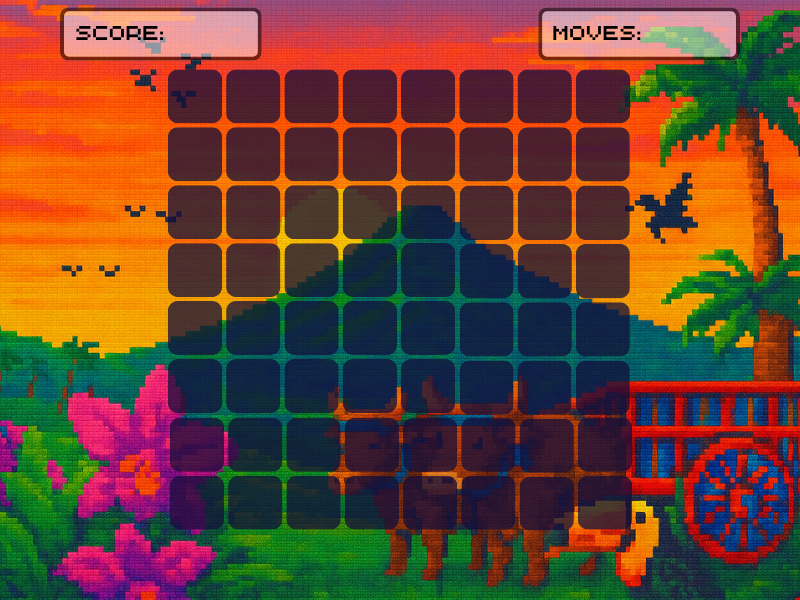
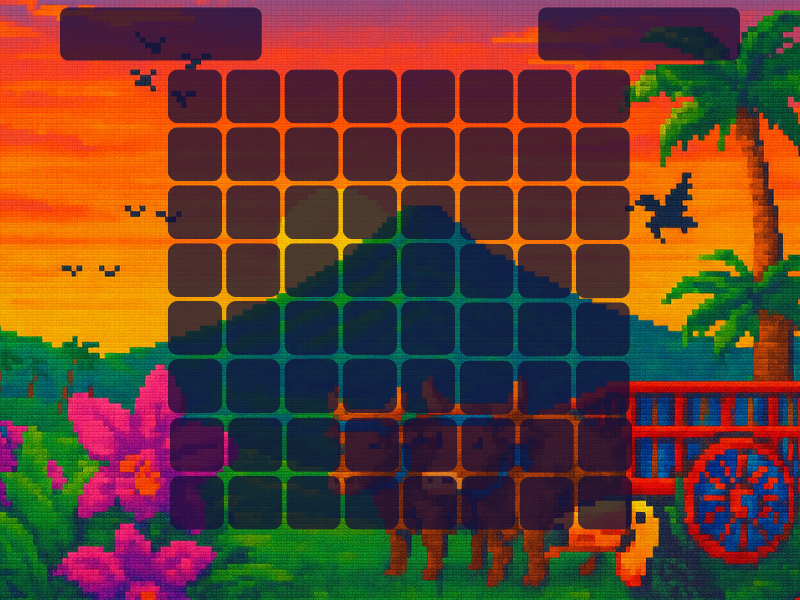
Added gravity, refill, score, number of moves

Changed region(s): [[0.6562, 0.0, 0.9375, 0.12], [0.0625, 0.0, 0.3438, 0.12]]

diff --git a/Match3_Game_JohanSerrano/Gem.cpp b/Match3_Game_JohanSerrano/Gem.cpp
@@ -7,9 +7,15 @@ Gem::Gem()
 	alpha = 255;
 }
 
-Sprite& Gem::getSprite()
+void Gem::setSprite(Texture& texture)
 {
-	return copySprite;
+	sprite.setTexture(texture);
+	sprite.setTextureRect(IntRect(kind * GEM_WIDTH, 0, GEM_WIDTH, GEM_HEIGHT));
+}
+
+Sprite& Gem::getSprite() 
+{
+	return sprite;
 }
 
 Gem::Gem(int aKind, int aRow, int aCol)
@@ -20,19 +26,17 @@ Gem::Gem(int aKind, int aRow, int aCol)
 	x = (colum * TILE_SIZE)+ offset.x;
 	y = (row * TILE_SIZE)+ offset.y;
 	alpha = 255;
-	copySprite.setPosition(x , y );
+	sprite.setPosition(x , y);
 }
 
 Gem::~Gem()
 {
 }
 
-void Gem::initialDraw(RenderWindow& window, Texture texture)
+void Gem::draw(RenderWindow& window)
 {	
-	copySprite.setTexture(texture);
-	copySprite.setTextureRect(IntRect(kind * GEM_WIDTH, 0, GEM_WIDTH, GEM_HEIGHT));
-	copySprite.setColor(Color(255, 255, 255, alpha));
-	window.draw(copySprite);
+	sprite.setColor(Color(255, 255, 255, alpha));
+	window.draw(sprite);
 }
 
 
@@ -81,13 +85,13 @@ bool Gem::moveGem(float dt) {
 	if (!isMoving) return true;
 
 	float velocidad = 400.f;
-	Vector2f currentPos = copySprite.getPosition();
+	Vector2f currentPos = sprite.getPosition();
 	Vector2f direction = destiny - currentPos;
 	float distance = sqrt(direction.x * direction.x + direction.y * direction.y);
 
 	if (distance > 1.0f) {
 		direction /= distance;
-		copySprite.move(direction * velocidad * dt);
+		sprite.move(direction * velocidad * dt);
 		return false;
 	}
 	else {
@@ -121,4 +125,14 @@ bool Gem::dissapear() {
 bool Gem::getDisappearingState()
 {
 	return isDisappearing;
+}
+
+void Gem::startDisappearing()
+{
+	isDisappearing = true;
+}
+
+bool Gem::isEmpty()
+{
+	return (alpha <= 0);
 }

diff --git a/Match3_Game_JohanSerrano/Board.h b/Match3_Game_JohanSerrano/Board.h
@@ -29,21 +29,23 @@ private:
 
 	bool isSwapping = false;
 
-	Vector2f getGridPosition(RenderWindow& window);
+	Vector2f getWindowPosition(RenderWindow& window);
 
 	Texture texture;
+
+	int score = 0;
+
+	int moves = 20;
 
 public:
 
 	void initialize();
 
-	void saveTexture();
+	void loadTexture();
 
 	void draw(RenderWindow& window);
 
 	bool areAdjacent() const;
-
-	Gem& getGem(int x, int y);
 
 	bool isInBounds(RenderWindow& window);
 
@@ -58,6 +60,16 @@ public:
 	void update(float dt);
 
 	bool checkLineMatch(int row, int col);
+
+	void clearMatches();
+
+	void applyGravity();
+
+	void refill();
+
+	int getScore();
+
+	int getMoves();
 
 };
 

diff --git a/Match3_Game_JohanSerrano/Gem.h b/Match3_Game_JohanSerrano/Gem.h
@@ -17,18 +17,20 @@ private:
 	Vector2f destiny;
 	bool isMoving = false;
 	bool isDisappearing = false;
+
+	Sprite sprite;
 	
 public:
 	Gem();
 
-	Sprite copySprite;
+	void setSprite(Texture& texture);
 
 	Sprite& getSprite();
 
 	Gem(int aKind, int aRow, int aCol);
 	~Gem();
 
-	void initialDraw(RenderWindow& window,Texture texture);
+	void draw(RenderWindow& window);
 	
 	void setKind(int aType);
 
@@ -51,8 +53,9 @@ public:
 
 	bool getDisappearingState();
 
-	void startDisappearing() { isDisappearing = true; }
+	void startDisappearing();
 
+	bool isEmpty();
 
 };
 
